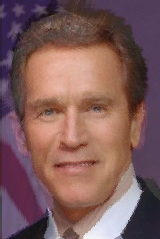
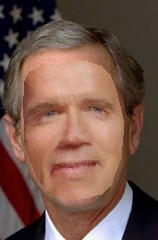
Face Swapping Added. Need to do blending

diff --git a/faceSwapping.py b/faceSwapping.py
@@ -1,0 +1,95 @@
+import cv2
+import numpy as np
+import argparse
+from scipy.spatial import Delaunay
+import itertools
+
+class Swapper:
+
+    def __init__(self):
+        self.init_lists()
+    
+    def init_lists(self):
+        self.list1 = []
+        self.list2 = []
+    
+    def loadImages(self, path1, path2):
+        self.image1 = cv2.imread(path1)
+        self.image2 = cv2.imread(path2)
+        self.image1_unmod = cv2.imread(path1)
+        self.image2_unmod = cv2.imread(path2)
+        self.i1Shape = self.image1.shape
+        self.i2Shape = self.image2.shape
+    
+    def loadWindows(self):
+        self.w1 = 'Get Image1 Points'
+        self.w2 = 'Get Image2 Points'
+        cv2.imshow(self.w1, self.image1)
+        cv2.imshow(self.w2, self.image2)
+        cv2.setMouseCallback(self.w1, self.getPointsImage1)
+        cv2.setMouseCallback(self.w2, self.getPointsImage2)
+        cv2.waitKey(0)
+        cv2.destroyAllWindows()
+        self.constructIntermediateImage()
+    
+    def getPointsImage1(self, event, x, y, params, flags):
+        if event == cv2.EVENT_LBUTTONDOWN:
+            self.list1.append((y,x))    # because x is column and y is row
+            cv2.circle(self.image1, (x,y), 3, (0,255,0), 3)
+            cv2.imshow(self.w1, self.image1)
+
+    def getPointsImage2(self, event, x, y, params, flags):
+        if event == cv2.EVENT_LBUTTONDOWN:
+            self.list2.append((y,x))
+            cv2.circle(self.image2, (x,y), 3, (0,0,255), 3)
+            cv2.imshow(self.w2, self.image2)
+    
+    def barycentric_coordinates(self, coordinates, triangle_numbers):
+        bary_coord = []
+        for i in range(len(triangle_numbers)):
+            b = list(self.tri.transform[triangle_numbers[i],:2].dot(coordinates[i]-self.tri.transform[triangle_numbers[i],2]))
+            b.append(1.0 - sum(b))
+            bary_coord.append(b)
+        return bary_coord
+
+    def constructIntermediateImage(self):
+        myadd = lambda xs,ys: tuple(int(x + y) for x, y in zip(xs, ys))
+        self.inter_image = self.list2
+        print(self.inter_image)
+        self.tri = Delaunay(self.inter_image)
+        # print(tri.simplices)
+        # tri.simplices is a 2d-numpy array kx3 array with indices of points of each simplex in each row
+        m,n,_ = self.i2Shape
+        print((m,n))
+        final_image_coordinates = list(itertools.product(range(m),range(n)))
+        p = self.tri.find_simplex(final_image_coordinates)
+        print(len(p))
+        bary_coordinates = self.barycentric_coordinates(final_image_coordinates, p)
+        simplices = self.tri.simplices
+        final_image = np.zeros((m,n,3))
+        for i in range(m):
+            for j in range(n):
+                triangle_number = p[i*n+j]
+                if triangle_number < 0:
+                    final_image[i,j] = self.image2_unmod[i,j]
+                    continue
+                corner_points = simplices[triangle_number]
+                barycentric = bary_coordinates[i*n+j]
+                p1 = myadd(myadd(tuple(x*barycentric[0] for x in self.list1[corner_points[0]]),tuple(x*barycentric[1] for x in self.list1[corner_points[1]])),tuple(x*barycentric[2] for x in self.list1[corner_points[2]]))
+                final_image[i,j] = 0.7*self.image1_unmod[p1]+0.3*self.image2_unmod[i,j]
+        # Now p has the triangle number for each of the pixels
+        cv2.imwrite('final.png',final_image)
+
+
+
+if __name__ == "__main__" :
+
+    parser = argparse.ArgumentParser(description='Morph some images')
+    parser.add_argument('-i1', dest='i1path', help='The image 1 path', required = True, type=str)
+    parser.add_argument('-i2', dest='i2path', help='The image 2 path', required = True, type=str)
+    # parser.add_argument('-k', dest='k', help='Morphing through k frames', required = True, type=int, default=1)
+    args = parser.parse_args()
+
+    swapper = Swapper()
+    swapper.loadImages(args.i1path, args.i2path)
+    swapper.loadWindows()
